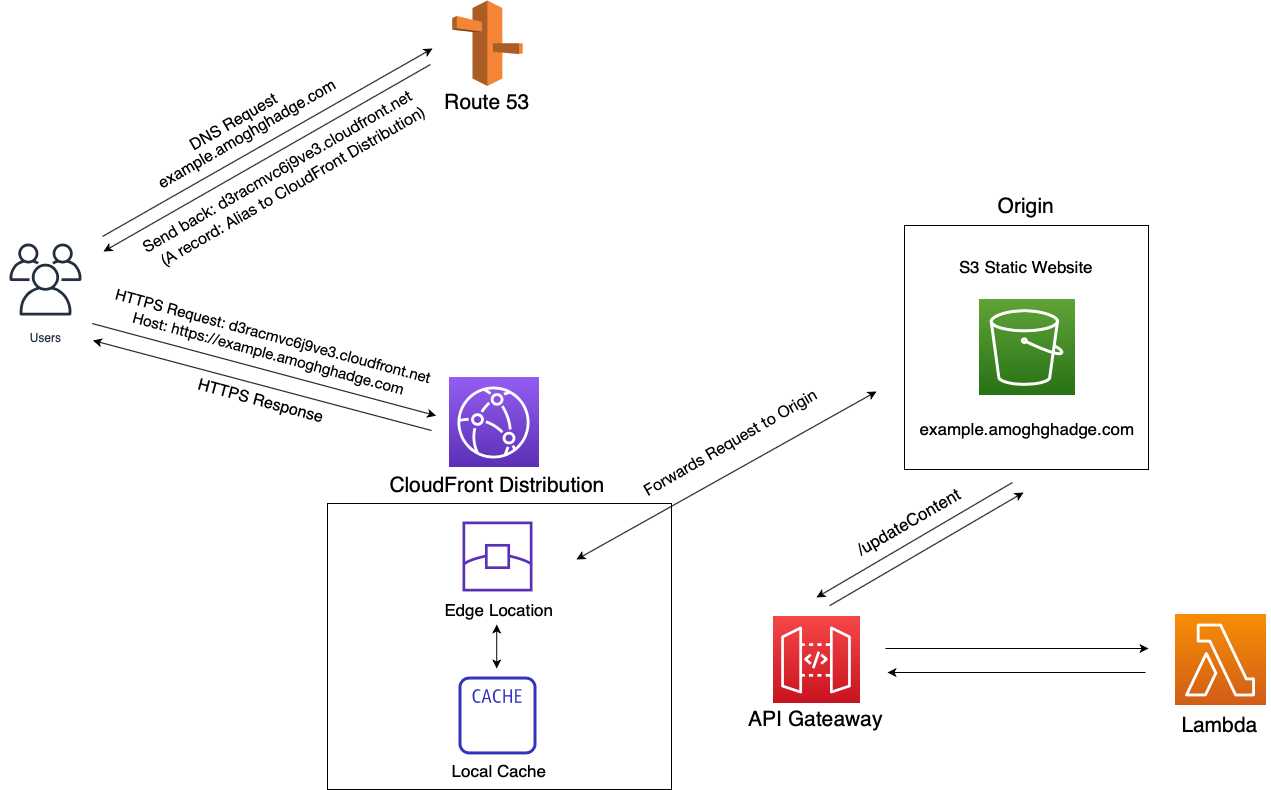
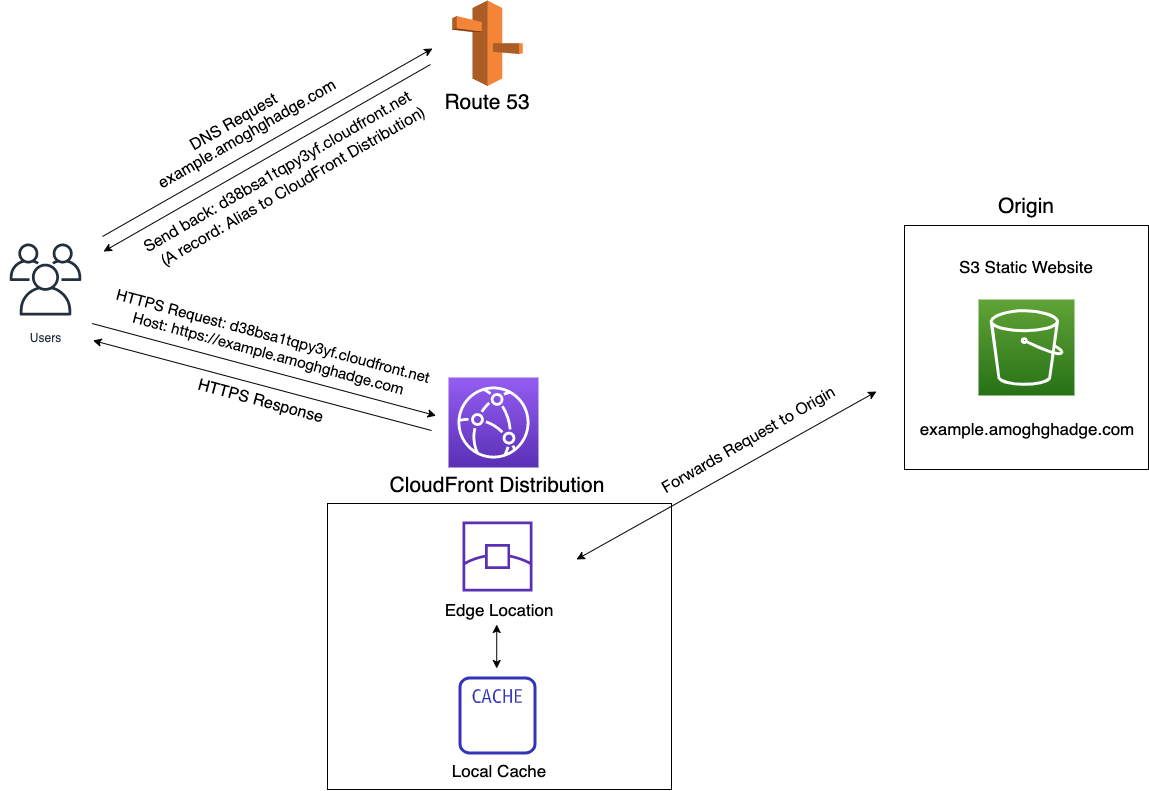
Readme Changes

diff --git a/README.md b/README.md
@@ -1,5 +1,3 @@
-## Websites
-
 ### Introduction
     Multiple serverless websites, either as Examples or for Local Companies, hosted through
     Amazon Web Services
@@ -13,6 +11,18 @@ ________________________________________________________________________________
 
 ### Hosting
 ##### These websites are hosted on Amazon Web Services
+
+___________________________________________________________________________________________________
+
+### Technical Components
+   
+- Source Code            : Packaged and deployed on AWS Lambda<br>
+- Website                : Uploaded to an S3 bucket<br>
+- API                    : API Gateway invokes the lambda function when the button on the website is pressed<br>
+- Messaging              : AWS SNS is used to send the SMS text message to the phone numbers<br>
+- Application Endpoint   : CloudFront provides an HTTPS endpoint to the backend<br>
+- DNS                    : Route 53 points opm.amoghghadge.com to the CloudFront Distribution<br>
+
 ___________________________________________________________________________________________________
 
 ### Architecture
